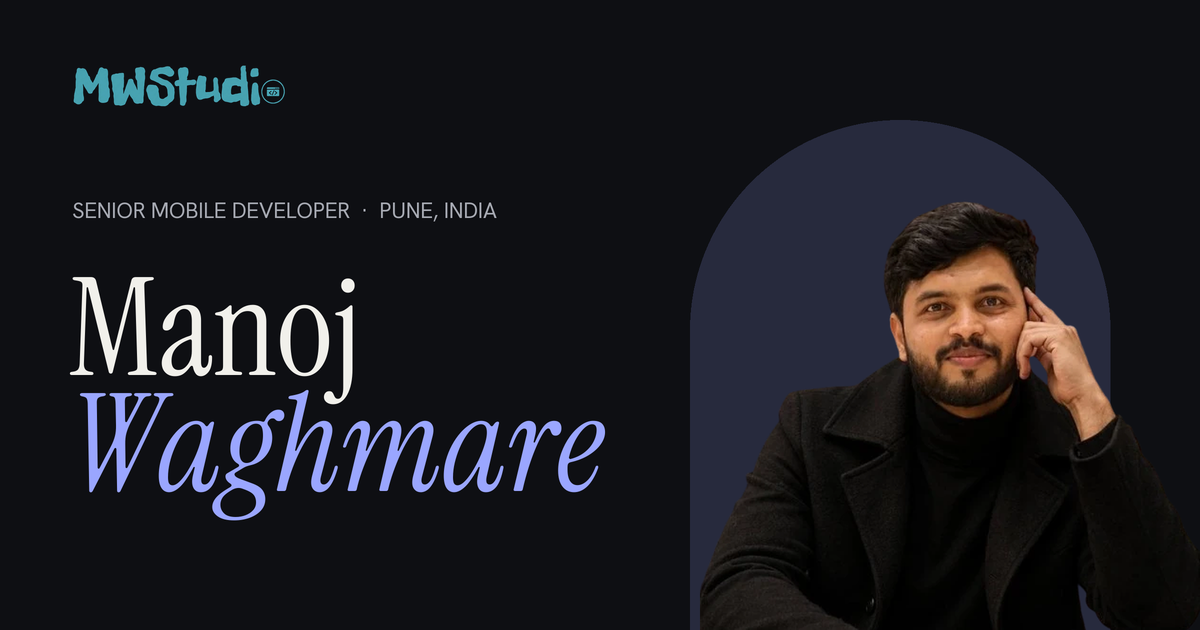
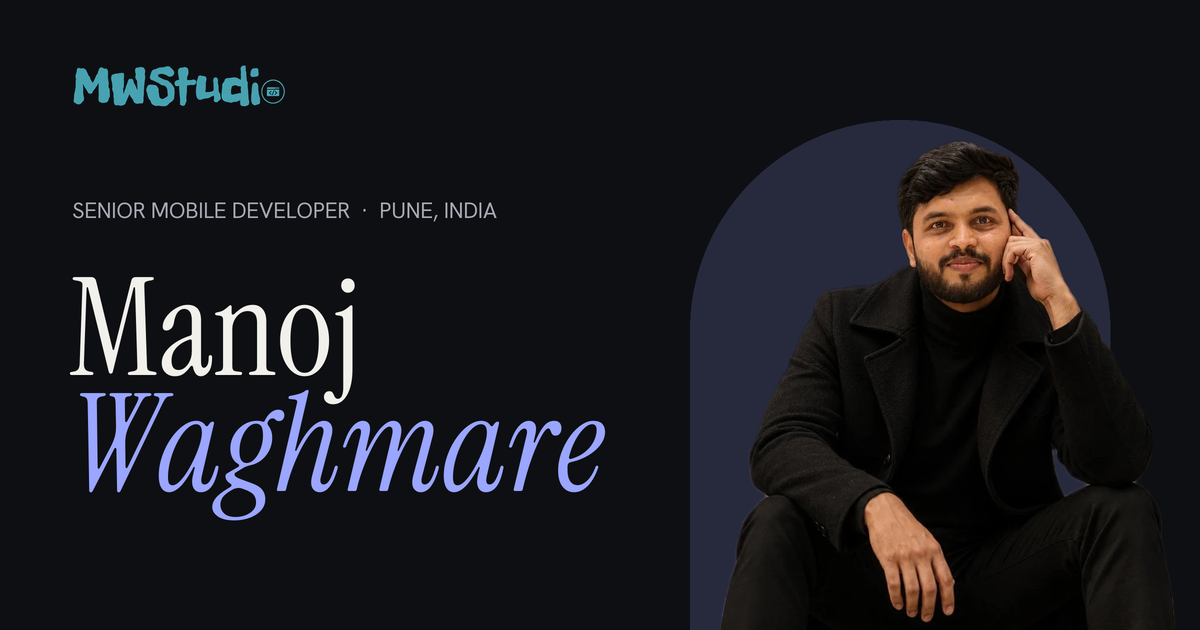
feat(hero): sharper cutout portrait on the blob
Replace the 526x475 hero photo with an 853x872 cutout made from the new
portrait (macOS Vision foreground mask), crop to head and hands, and
adjust the photo box and blob to the new proportions. Regenerate og.png.

diff --git a/nextjs_portfolio/src/components/HeroSection.tsx b/nextjs_portfolio/src/components/HeroSection.tsx
@@ -46,10 +46,10 @@ export function HeroSection() {
 
         <FadeIn>
         <figure data-s className="relative w-full max-w-[340px] mx-auto md:mx-0 md:ml-auto">
-          <div className="relative aspect-[526/475]">
+          <div className="relative aspect-[853/962]">
             <div
               aria-hidden
-              className="absolute inset-x-[14%] bottom-0 top-[4%] bg-[color-mix(in_srgb,var(--accent)_16%,var(--bg))] rounded-[58%_42%_52%_48%/48%_56%_44%_52%]"
+              className="absolute inset-x-[10%] bottom-0 top-[4%] bg-[color-mix(in_srgb,var(--accent)_16%,var(--bg))] rounded-[58%_42%_52%_48%/48%_56%_44%_52%]"
             />
             <Image
               src={getAssetPath(profile.photoAsset)}
